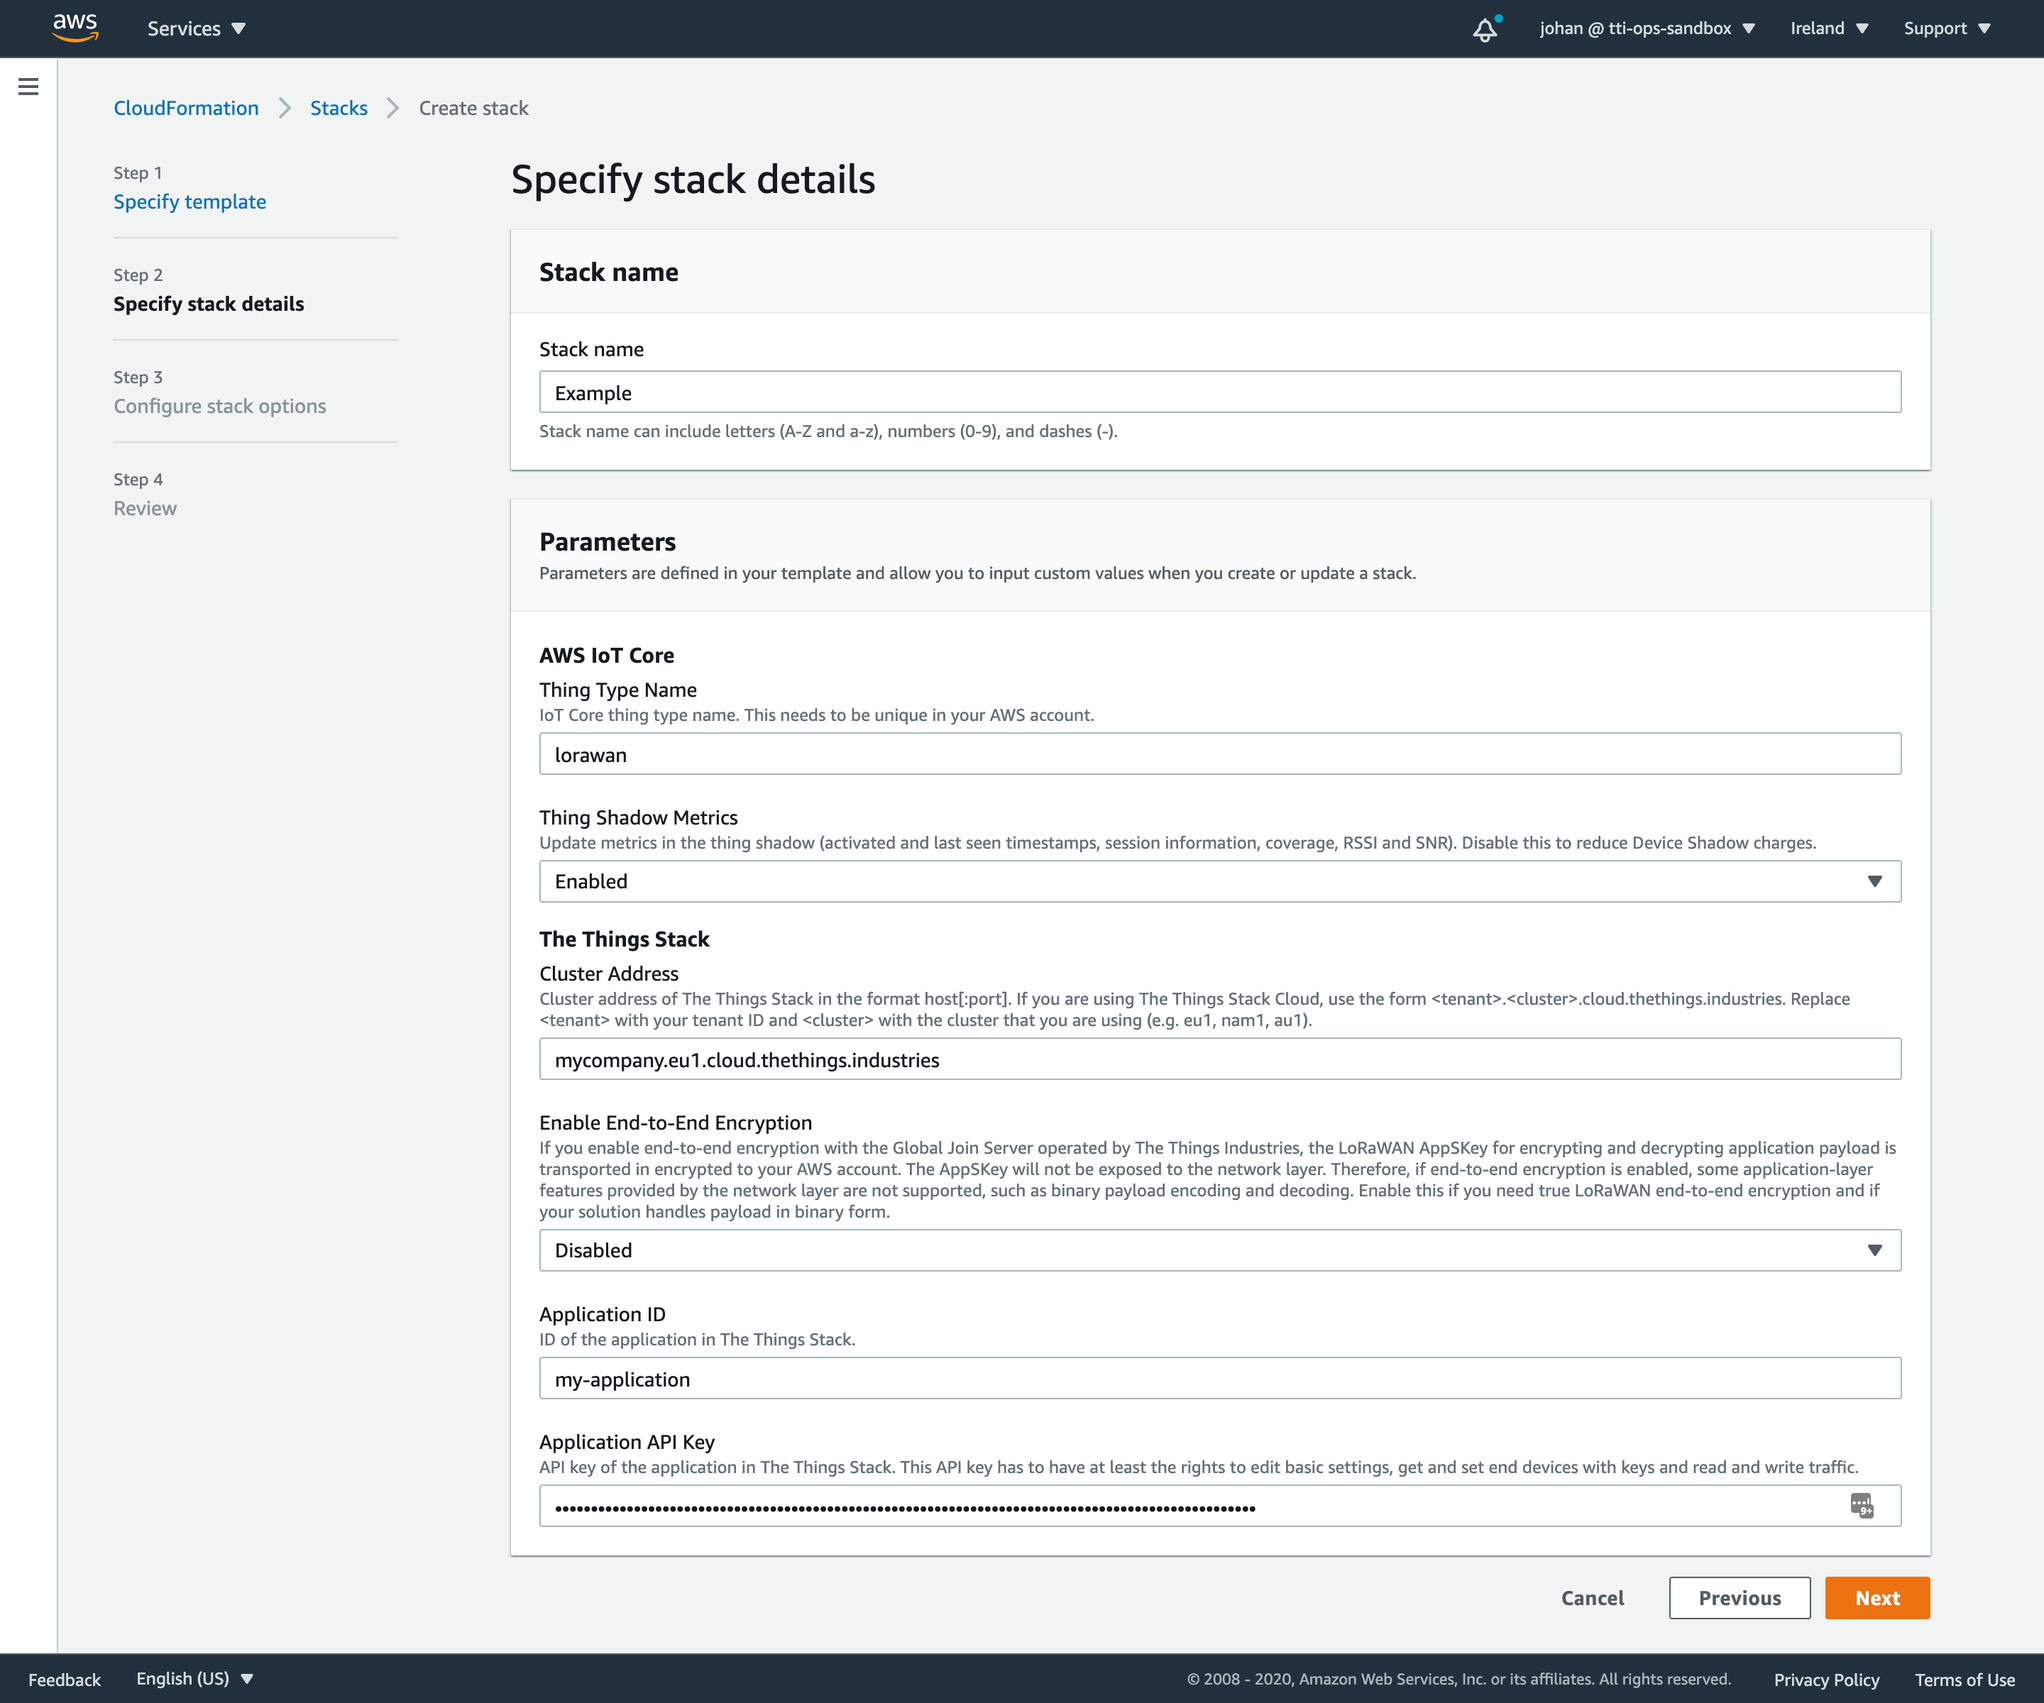
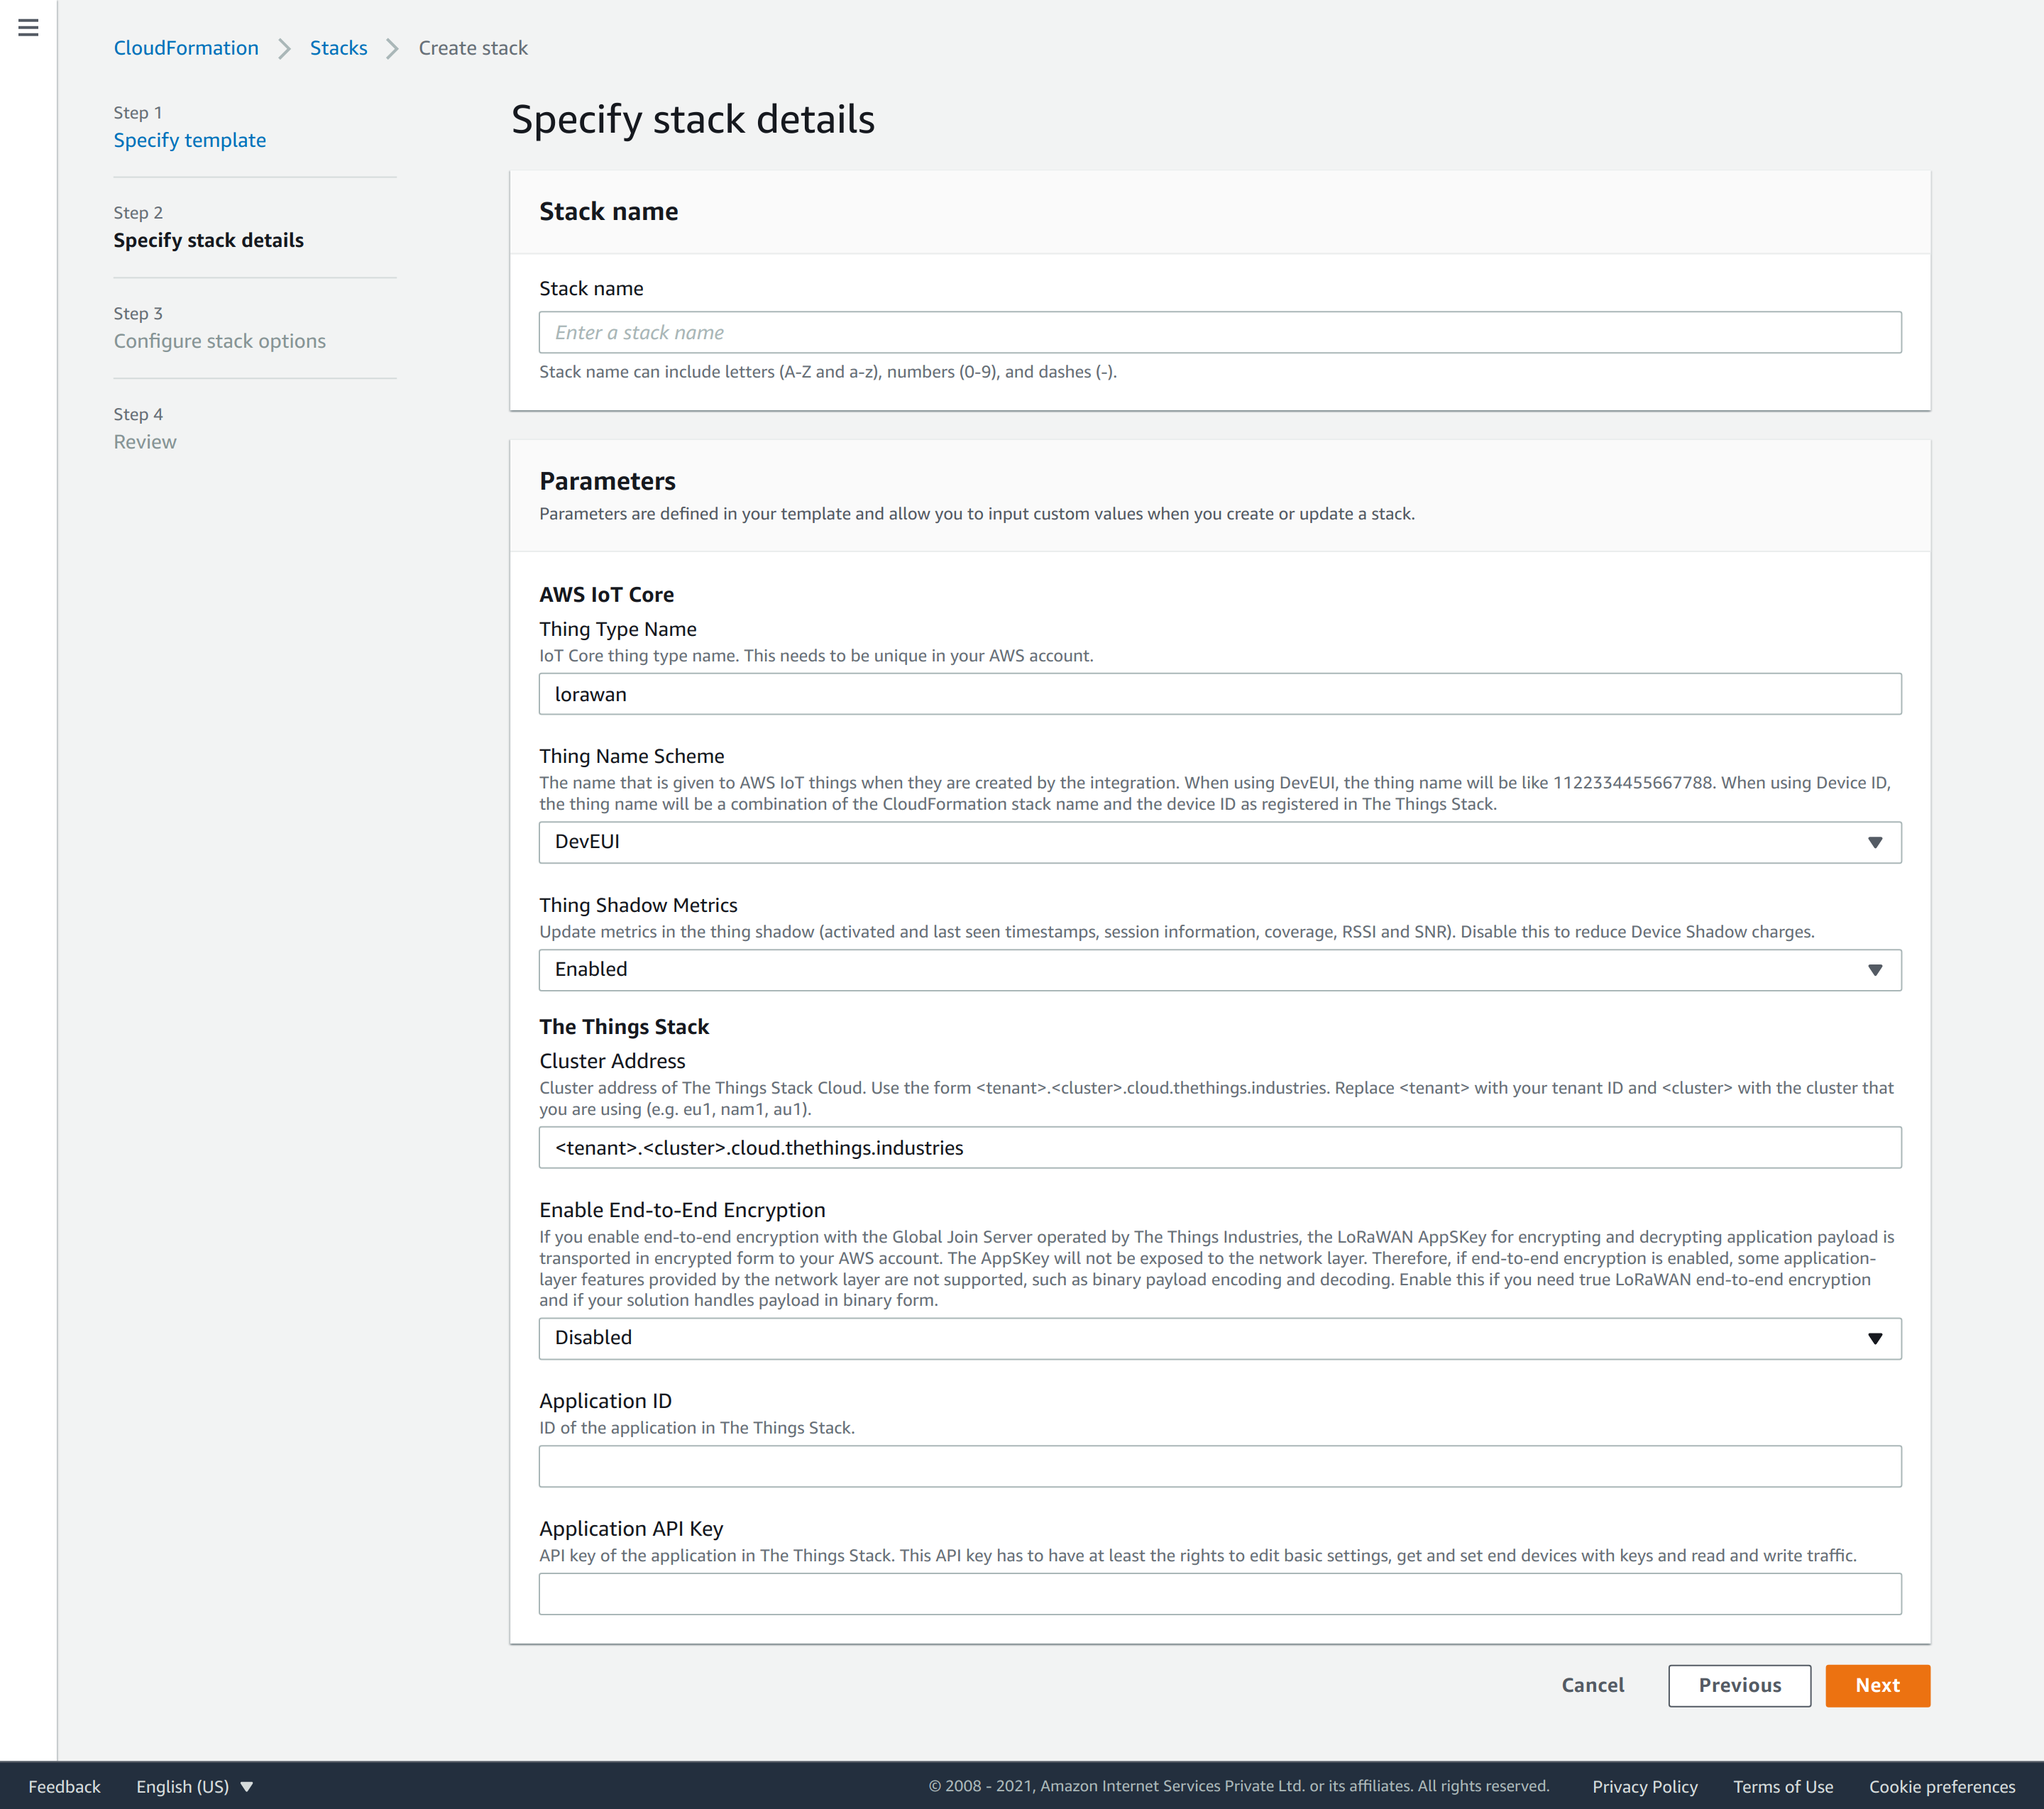
Deploying to gh-pages from  @ 9381bc2cd7f1cccbd30585f06ca0042ce561d8a0 🚀

diff --git a/integrations/cloud-integrations/aws-iot/default/deployment-guide/index.html b/integrations/cloud-integrations/aws-iot/default/deployment-guide/index.html
@@ -443,6 +443,11 @@
 
 </div>
 
+<div class="notification is-warning is-light has-text-dark">
+  <h5 class="title is-family-sans-serif has-text-dark mb-1">Warning:</h5>
+  Make sure to select the template related to your deployment only.
+</div>
+
 <h3 id="settings">Settings</h3>
 <p>The <strong>Stack name</strong> is the unique name identifying the integration in your AWS account.</p>
 <p>The parameters configure the integration:</p>
@@ -471,6 +476,12 @@
 
 : AWS Account ID that The Things Stack authenticates with.</li>
 <li><strong>Thing Type Name</strong>: The unique AWS IoT Core thing type name for this integration.</li>
+<li><strong>Thing Name Scheme</strong>: The name that is given to AWS IoT things when they are created by the integration.
+<ul>
+<li>When using <code>DevEUI</code>, the name will appear as the numeric DevEUI, i.e 1122334455667788.</li>
+<li>When using <code>DeviceID</code>, the thing name will be a combination of the CloudFormation stack name and the device ID as registered in  The Things Stack, i.e. <code>&lt;stackName&gt;_&lt;DeviceID&gt;</code>.</li>
+</ul>
+</li>
 <li><strong>Thing Shadow Metrics</strong>: Enable or disable updating the thing shadow with metrics.</li>
 <li><strong>Cluster Address</strong>: The cluster address of your The Things Stack deployment.
 <ul>
@@ -596,10 +607,10 @@
         <h3 class="title is-6">About this page</h3>
         <div class="content">
 <p class="is-size-7">
-  Last changed by Nejra Selimović on 10 Jun 2021.
+  Last changed by i3mSuperMan on 09 Jul 2021.
   <br>
-  <a href="https://github.com/TheThingsIndustries/lorawan-stack-docs/commit/aea847e4a5b06db18fe91950625da9cc60eaf291">
-      Docs reorganization (#374)
+  <a href="https://github.com/TheThingsIndustries/lorawan-stack-docs/commit/9381bc2cd7f1cccbd30585f06ca0042ce561d8a0">
+      doc: Update AWS IoT integration documentation with minor changes (#432)
     </a>
 </p>
 

diff --git a/integrations/cloud-integrations/aws-iot/default/things/index.html b/integrations/cloud-integrations/aws-iot/default/things/index.html
@@ -297,7 +297,16 @@
 
 <h2 id="thing-type-and-names">Thing Type and Names</h2>
 <p>The AWS IoT Integration for The Things Stack uses the thing that you specified when deploying the integration. By default, the thing type is <code>lorawan</code>.</p>
-<p>Things are created automatically as they join the network or send an uplink message. For the name of new things, you can use their <code>&lt;DevEUI&gt;</code></p>
+<p>Things are created automatically as they join the network or send an uplink message. For the name of new things, you can use their <code>&lt;DevEUI&gt;</code> or <code>&lt;stackName&gt;_&lt;DeviceID&gt;</code>.</p>
+<div class="notification is-info is-light has-text-dark">
+  <h5 class="title is-family-sans-serif has-text-dark mb-1">Note:</h5>
+  <ul>
+<li><code>stackName</code>: the AWS CloudFormation stack name of your deployment</li>
+<li><code>DeviceID</code>: the device-id of your device</li>
+</ul>
+
+</div>
+
 <p>Your AWS IoT things overview may look like this:</p>
 <figure>
     <img src="../things-overview.png"
@@ -458,10 +467,10 @@
         <h3 class="title is-6">About this page</h3>
         <div class="content">
 <p class="is-size-7">
-  Last changed by Nejra Selimović on 10 Jun 2021.
+  Last changed by i3mSuperMan on 09 Jul 2021.
   <br>
-  <a href="https://github.com/TheThingsIndustries/lorawan-stack-docs/commit/aea847e4a5b06db18fe91950625da9cc60eaf291">
-      Docs reorganization (#374)
+  <a href="https://github.com/TheThingsIndustries/lorawan-stack-docs/commit/9381bc2cd7f1cccbd30585f06ca0042ce561d8a0">
+      doc: Update AWS IoT integration documentation with minor changes (#432)
     </a>
 </p>
 

diff --git a/integrations/cloud-integrations/aws-iot/default/messages/index.html b/integrations/cloud-integrations/aws-iot/default/messages/index.html
@@ -339,7 +339,7 @@
 <p>Still in the AWS IoT <strong>MQTT client</strong>, enter the downlink topic <code>lorawan/downlink</code>.</p>
 <p>The message is a JSON object with the following format:</p>
 <div class="highlight"><pre class="chroma"><code class="language-js" data-lang="js"><span class="p">{</span>
-  <span class="s2">&#34;thingName&#34;</span><span class="o">:</span> <span class="s2">&#34;&lt;DevEUI&gt;&#34;</span><span class="p">,</span>
+  <span class="s2">&#34;thingName&#34;</span><span class="o">:</span> <span class="s2">&#34;&lt;thingName&gt;&#34;</span><span class="p">,</span>
 
   <span class="s2">&#34;bytes&#34;</span><span class="o">:</span> <span class="s2">&#34;AQ==&#34;</span><span class="p">,</span> <span class="c1">// Base64 encoded FRMPayload
 </span><span class="c1"></span>  <span class="c1">// or
@@ -425,10 +425,10 @@
         <h3 class="title is-6">About this page</h3>
         <div class="content">
 <p class="is-size-7">
-  Last changed by Nejra Selimović on 10 Jun 2021.
+  Last changed by i3mSuperMan on 09 Jul 2021.
   <br>
-  <a href="https://github.com/TheThingsIndustries/lorawan-stack-docs/commit/aea847e4a5b06db18fe91950625da9cc60eaf291">
-      Docs reorganization (#374)
+  <a href="https://github.com/TheThingsIndustries/lorawan-stack-docs/commit/9381bc2cd7f1cccbd30585f06ca0042ce561d8a0">
+      doc: Update AWS IoT integration documentation with minor changes (#432)
     </a>
 </p>
 
